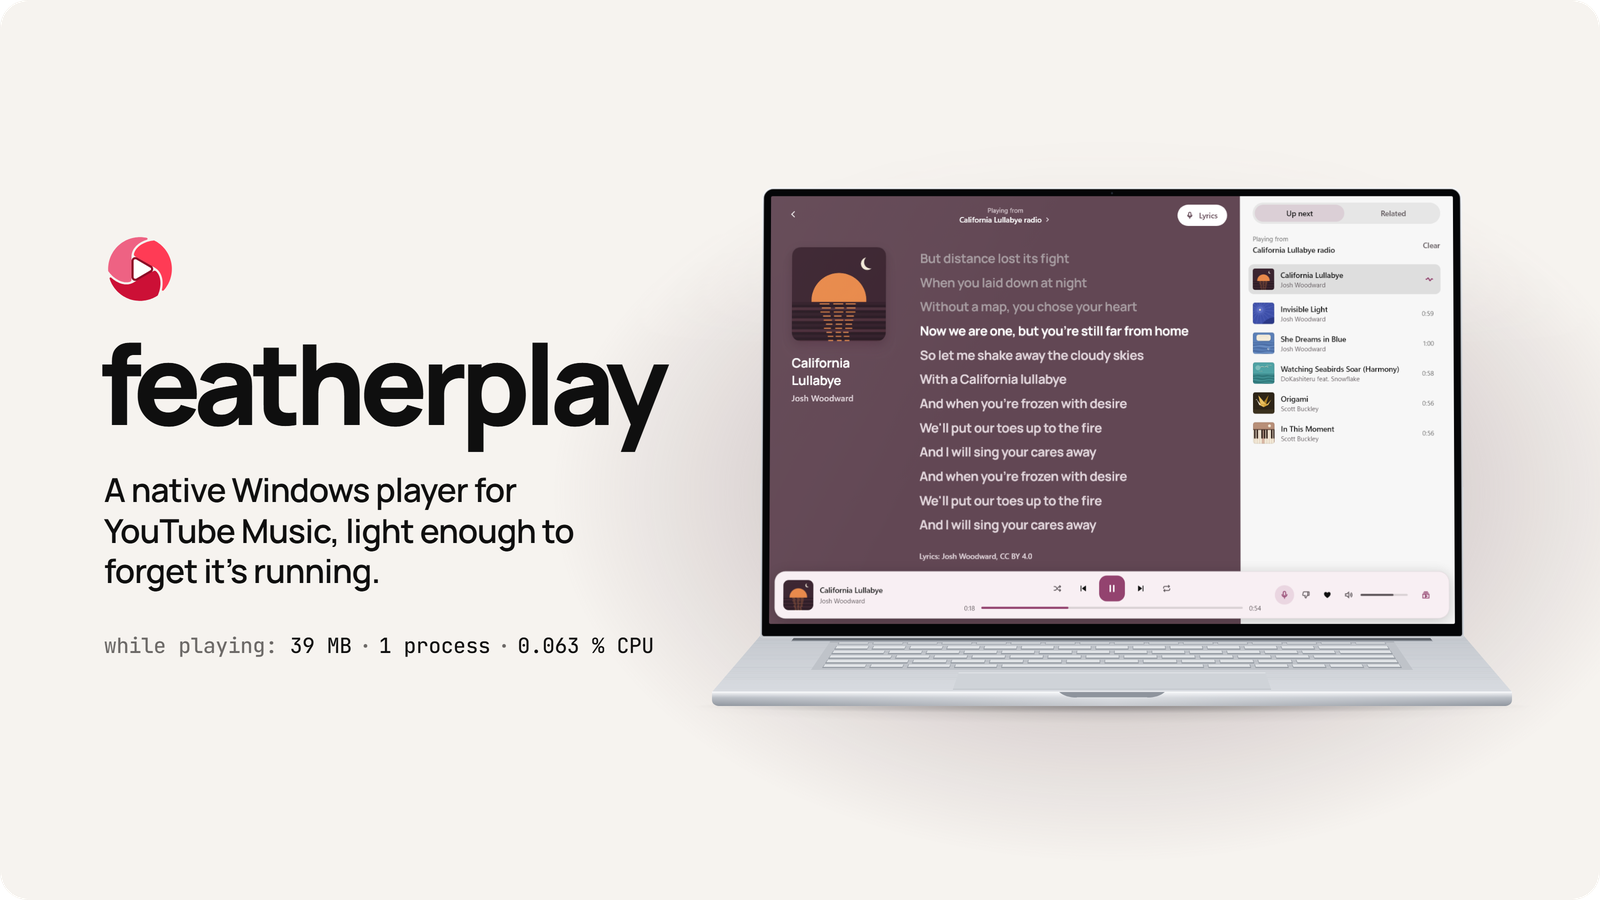
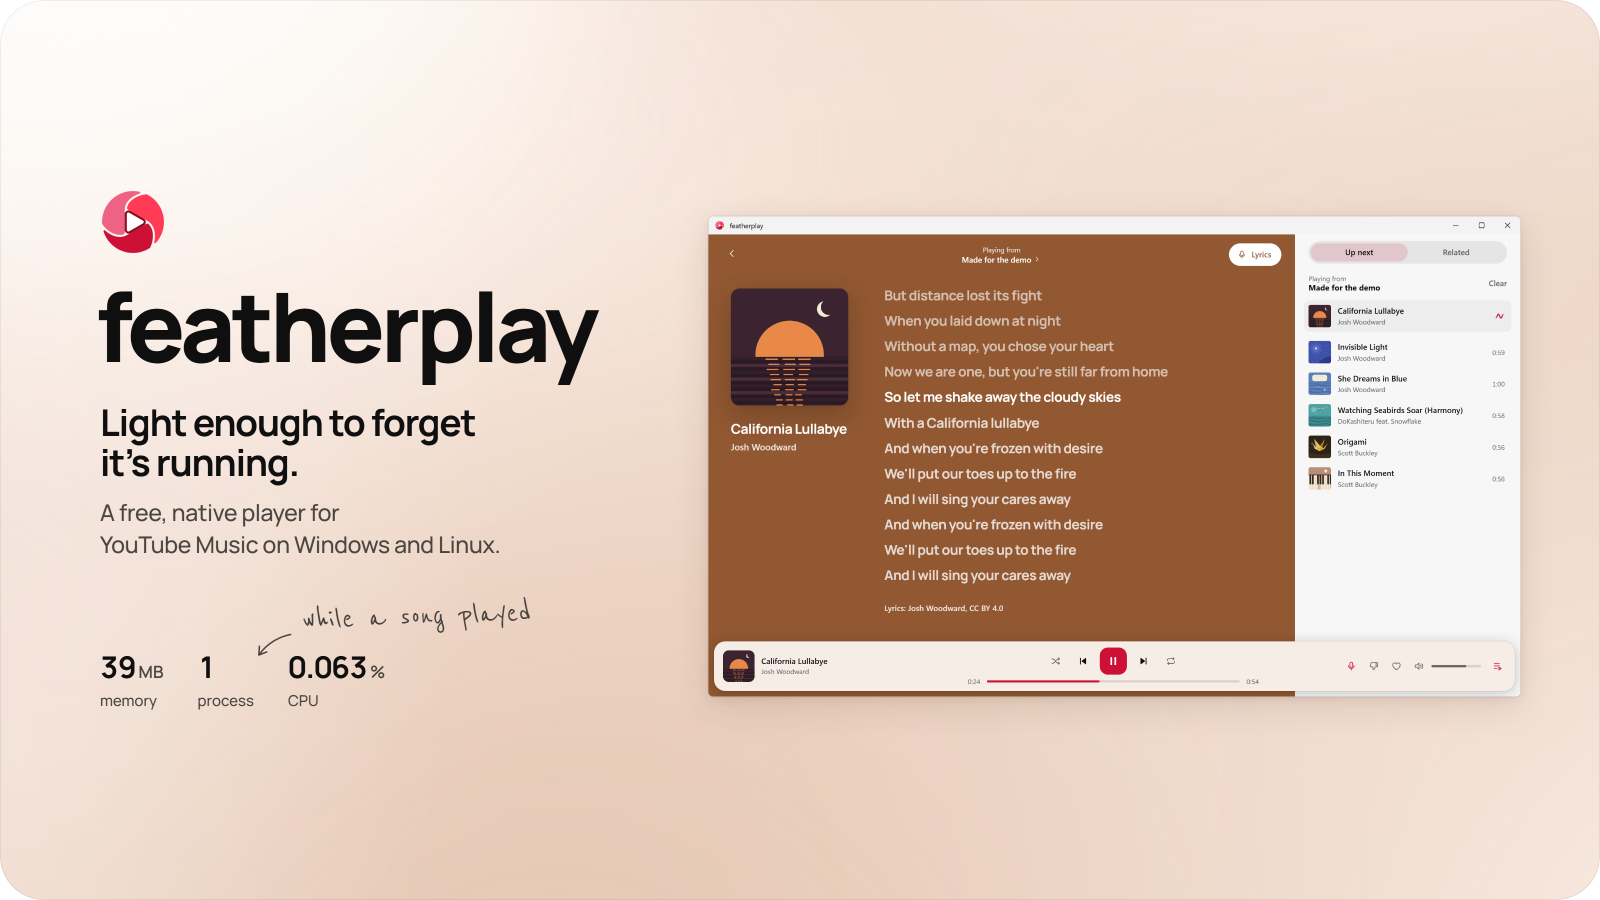
docs(readme): the header in the new website's look
The name and the site's first words on its frosted background, beside the app as the site's window, in place of the laptop.

diff --git a/README.md b/README.md
@@ -4,13 +4,15 @@
   outside the repo; tray.png is the one real capture. MadeWithSlint-logo-*.svg: Slint's badge,
   unmodified (CC BY-ND 4.0), as its licence asks. now-playing-lyrics, settings-discord, search
   and mini-player stay for the site and release notes, but aren't shown here. The header
-  picture is the page's h1, so tools that read the first heading find the app's name.
+  picture is the page's h1, so tools that read the first heading find the app's name; it is
+  made from the built website (its background and its live window), by a script kept outside
+  the repo too.
 -->
 
 <h1 align="center">
   <picture>
     <source media="(prefers-color-scheme: light)" srcset=".github/readme/header-light.png">
-    <img src=".github/readme/header-dark.png" alt="featherplay: a native Windows player for YouTube Music, light enough to forget it's running. While playing it uses 39 MB of memory, 1 process and 0.063 % CPU. Beside the name, a laptop shows featherplay's Now playing view with synced lyrics for California Lullabye, over a mauve glow, the colour the app takes from the song's cover." width="100%">
+    <img src=".github/readme/header-dark.png" alt="featherplay: light enough to forget it's running. A free, native player for YouTube Music on Windows and Linux. While a song played it used 39 MB of memory, 1 process and 0.063 % CPU. Beside the name, featherplay's window shows the Now playing view with synced lyrics for California Lullabye and the queue, on a frosted background in the colour the app takes from the song's cover." width="100%">
   </picture>
 </h1>
 
